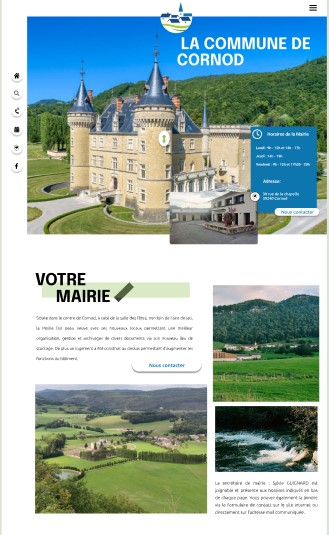
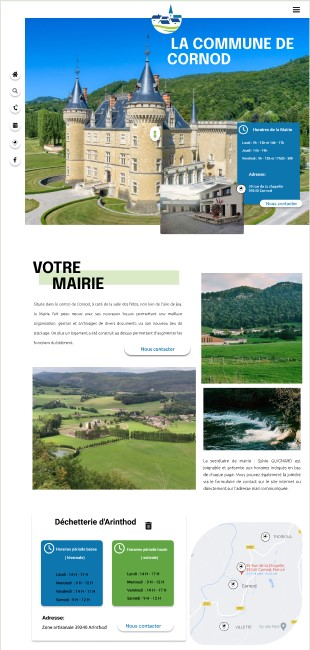
avancement partie portfolio

diff --git a/assets/css/style.css b/assets/css/style.css
@@ -33,7 +33,7 @@ header > .boxLogo{width: 100%;display: flex;justify-content: flex-start;align-it
 #boxScroll> div > a > .fa-chevron-down { color: #ffffff;font-size: 30px;}
 #boxScroll > div > a > i:hover {color: #6cc431; transform: rotate(180deg);}
 #boxScroll > div > a:hover {color: #6cc431; transform: rotate(180deg);}
-
+/***************************************************************************************************/
 /* partie boxLogo*/
 #logoLeaf{width: 100%;height: 10vh; display: flex;justify-content: space-between;align-items: center;}
 #logoLeaf>.logoChris {width:120px;height: 80px;margin-top: 30px;margin-left: 30px;}
@@ -41,6 +41,7 @@ header > .boxLogo{width: 100%;display: flex;justify-content: flex-start;align-it
 .fa-solid{font-size: 40px;}
 .fa-leaf{color: #6CC431;transform: rotate(45deg);margin-top : 20px ;}
 .fa-arrow-rotate-right{color: #ffff;}
+/*******************************************************************************************************/
 /* partie boxIdentité */
 #boxIdentite{width: 100%;display: flex;flex-direction: column;justify-content:center;;height: 75vh;}
 .hello{display: flex; margin-left: 15%;}
@@ -51,6 +52,7 @@ h1,.moi,.prenom{font-family: 'Rubik', sans-serif;font-size: 90px;font-weight: 40
 .boxReseau{width: 100%;min-height: 10vh; display: flex;align-items: center;justify-content: flex-end;}
 .reseau{margin-right: 30px;}
 .fa-brands{font-size: 30px;color: white;text-decoration: none; margin-left: 20px;}
+/***********************************************************************************************************/
 /********************section  A Propos ************************/
 #aPropos{width: 100%; min-height: 100vh; display: flex;}
 .boxPhoto{width: 30%;height: 100vh;display: flex;justify-content: center;align-items: center;flex-direction: row; background: #4A8442;}
@@ -74,6 +76,7 @@ h1,.moi,.prenom{font-family: 'Rubik', sans-serif;font-size: 90px;font-weight: 40
 .presentation > h3> span{color:#ffff;font-size: 50px;}
 .presentation > h3> span:hover{color: black;} 
 .presentation > h4{width:80%;font-family: 'Rubik', sans-serif;font-size: 80px;}
+/************************************************************************************************************************************************************************/
 /* partie résumer */
 .resumer{width:90%;height: 100vh;display: flex;justify-content: center; align-items: center;flex-direction: column; margin-left: 80px;}
 .resumer > p {width: 50%;display: flex;justify-content: center;align-items: center;font-family: "Numans";font-size: 16px;margin-left: 20px; margin-top:20px;}  
@@ -83,32 +86,38 @@ h1,.moi,.prenom{font-family: 'Rubik', sans-serif;font-size: 90px;font-weight: 40
 #roundContact > a{color: white; text-decoration: none;z-index: 2; margin-right: 4px;}
 #roundContact::after{content:"Contact";position: absolute;border-radius: 80px / 40px;width: 150px; height: 75px; background:#4A8442; z-index: 1; top: 10px; right: 20px; color: white;  text-decoration: none;}*/
 /**************** SECTION COMPETENCES DEV*********************/
-#competencesDev{ width: 100%; min-height: 100vh; display: flex; justify-content:center;align-items: center;flex-direction:row;}
-.division{width: 100%;height:10vh;display: flex;justify-content:center;align-items: center;}
-.division> h2{ font-family: 'NovaRound';font-size: 2.5rem;color: black;margin-left: 10px;margin-top: 20px;}
-.division>.fa-leaf{margin-top:40px;}
-/* partie langages de compétence developpement */
-.boxLangages{width: 100%;height:100vh;display: flex;justify-content: center; 
-    align-items: center;flex-direction: column;}
-.barLangages{ height:20px;background: #6CC431;border-radius: 30px;}
-#langagesDev{ width:85%;height:20px; background:#e2dfcd; border-radius:30px;display: flex;justify-content: flex-start;
-    align-items:center; color:black; margin:48px 0px 0px 60px} 
-#langagesDev>.fa-html5,.fa-css3-alt,.fa-js-square,.fa-php,.fa-laravel,.fa-bootstrap,.fa-wordpress-simple{color:#095933; margin-left: -38px;}
-.html{width: 85%;}.css{width: 75%;}.js{width:20%}.php{width: 2%;}.laravel{width: 0%;}.bootstrap{width: 60%;}.wordpress{width: 15%;}
 /* Partie Compétence */
-#competencesDev> .boxCompetencesDev{ width:100%;height: 100vh; justify-content: center; align-items: center;flex-direction: column-reverse; background:#AEE68A;margin: 0 50px;display: flex;justify-content: center;align-items: center;}
-#competencesDev> h2{font-family: "Rubik",sans-serif;font-weight: bold; font-size: 55px;color: black;writing-mode: vertical-rl;text-orientation: upright}
-#competencesDev> .boxCompetencesDev >h3{width:83%;font-family: "Numans"; font-size:3.5rem;margin-left: 30px; background: #AEE68A;color: white;}
+#competencesDev{ width: 100%; min-height: 100vh; display: flex; justify-content:center;align-items: center;flex-direction:column;}
+#competencesDev> .boxCompetencesDev{ width:60%;flex-direction: column-reverse; background:#AEE68A;margin: 0 50px;display: flex;justify-content: center;align-items: center;}
+/********************************************************************************************************************************************************/
+.division{width: 43%;display: flex;justify-content:space-around;align-items: center;flex-direction: column;}
+.develop{ font-family: 'NovaRound';font-size: 2.5rem;color: black;margin-left: 20px;margin-top: 20px;}
+.fa-leaf{margin-top:40px;}
+.comptet{width:100%; background: #AEE68A;font-family: "Rubik",sans-serif;font-weight: bold; font-size:5.5rem;color: black;margin-top: 30px;}
+.boxLeafDeve{flex-direction: row-reverse;display: flex;width: 100vw;height: 12vh;justify-content: flex-end;}
+/*****************************************************************************************************************************************************************************/
+/* partie langages de compétence developpement */
+#contenaireDev{width: 100%;height: 100vh; display: flex;justify-content: center; align-items: center;}
+.contenaireLang{width: 100%; height: 100vh; display: flex;flex-direction: column;justify-content: flex-start; align-items: center;}
+#langagesDev{ width:80%;height:20px; background:#e2dfcd; border-radius:30px;display: flex;justify-content: flex-start;align-items:center; color:black; margin:48px 0px 0px 60px}
+#langagesDev>.fa-html5,.fa-css3-alt,.fa-js-square,.fa-php,.fa-laravel,.fa-bootstrap,.fa-wordpress-simple{color:#095933; margin-left: -38px;} 
+.html{width: 85%;}.css{width: 75%;}.js{width:20%}.php{width: 2%;}.laravel{width: 0%;}.bootstrap{width: 60%;}.wordpress{width: 15%;}
+.boxLangages{width: 100%;height:100vh; display: flex;justify-content: flex-start;align-items: center;}
+.barLangages{ width: 100%;Height:20px;background: #6CC431;border-radius: 30px;display: flex;flex-direction: column;}
+.imgGreen{width: 100%;height: 100vh;display: flex; align-items: center;justify-content: center;background:yellow}
+
+/*****************************************************************************************************************************************************/
 /**************** SECTION COMPETENCES DESIGNE/DIGITAL/AUTRES*********************/
 #competencesDeg{ width: 100%; height: 100vh; display: flex; justify-content:center;align-items: center;flex-direction:row;}
 #competencesDeg> .boxCompetencesDeg{ width:80%; color:#6CC431;display: flex;justify-content: center;}
-.boxCompetencesDeg> h2{font-family: "Rubik",sans-serif;font-weight: bold; font-size: 55px; color: black; writing-mode: vertical-rl;text-orientation: upright}
 #competencesDeg> .boxCompetencesDeg >h3{width:70%;font-family: "Numans"; font-size:3.5rem;margin-left: 80px;}
+/******************************************************************************************************************************************************************/
 /* partie langages de compétence */
 #competencesDeg{ width: 100%; min-height: 100vh; display: flex; justify-content:center;align-items: center;flex-direction:row;}
 .type{width: 100%;height:10vh;display: flex;justify-content:flex-start;align-items: center;}
 .type> h2{ font-family: 'NovaRound';font-size: 1.8rem;color: black;margin-left: 47px;margin-top: 57px;}
 .type>.fa-leaf{margin-top:67px;font-size: 25px;}
+/******************************************************************************************************************************************************************/
 /* partie langages de compétence developpement */
 .boxDig{width: 100%;height:100vh;display: flex;justify-content: center; align-items: center;flex-direction: column; margin: 50px;}
 .barLangages{ height:20px;background: #6CC431;border-radius: 30px;}
@@ -120,47 +129,49 @@ h1,.moi,.prenom{font-family: 'Rubik', sans-serif;font-size: 90px;font-weight: 40
 .frameworks{} */
 #langagesDig>.fa-figma, .fa-mobile-button, .fa-sass, .fa-code, .fa-git-square, .fa-envira{color:#095933; margin-left: -38px;font-size: 1.6rem;}
 .figma{width: 70%;}.mobile{width: 80%;}.sass{width:20%}.integration{width: 90%;}.leaf{width: 85%;}.git{width:50%}
+/************************************************************************************************************************************************************************/
 /*********************************** SECTION PORTFORLIO ********************************/
-#portFolio{width: 100%;min-height: 100vh;display: flex;flex-direction: column;}
-#titleProjets{width: 100%;height: 25vh;display:flex;align-items: center;margin-bottom: 50px;}
+#portFolio{width: 100%;height: 89vh;display: flex;flex-direction: column;margin-top: 20px;}
+#titleProjets{width: 100%;height:100vh;display:flex;align-items: center;margin-bottom: 50px;background: white;}
 #titleProjets>h2{ color:black;font-size: 5rem;font-family: 'Rubik';font-weight: 500;margin-left:50px;}
-#titleProjets>.fa-leaf{
-    font-size: 50px;
-}
+#titleProjets>.fa-leaf{font-size: 50px;}
+/************************************************************************************************************************************************************************/
 /* premiere partie des projets  */
-#lesProjets1{width: 100%;height:75vh;display:flex;}
-figure{width: 100%;margin: 10px;}
+figure{width: 100%;display: flex;justify-content: center;align-items: center;flex-direction: column;}
+.titleDescrip{font-size: 2rem;font-family: 'NovaRound';display: flex;justify-content: center;align-items: center;}
+figcaption{width: 35vw;height: 15vh;display: flex;justify-content: center;align-items: center; flex-direction: column;margin-left: 50px;}
+figcaption>.description{font-family: 'NovaRound';font-size: 2rem;color: black;}
+button{width: 27vh;height: 7vh; background: white;border-radius: 50px;font-family: 'Numans';}
+.boutonProjets{font-size: 1rem;margin-top: 25px; border:2px solid #6cc431;text-decoration: none;display: inline-block;transition-duration: 0.4s;cursor: pointer;}
+.boutonProjets:hover{ color:white; background-color:#6cc431;}
+/************************************************************************************************************************************************************************/
+/* partie 1 projet */
+#listeProjets1{width: 100%;height:75vh;display:flex;}
 /* porjet creatives */
 figure>.creatives{width: 25vw; height: 75vh;flex-direction: column;}
-.creatives>img{width: 30vw;height: 40vh;margin-left: 30px;}
-.creatives>h4{width: 30vw;font-family: 'Rubik';font-size: 2rem;}
-figcaption{width: 30vw;height: 20vh;display: flex;justify-content: center;align-items: center; flex-direction: column;margin-left: 30px;}
-figcaption>.description{font-family: 'NovaRound';font-size: 2rem;color: black;}
-button{width: 27vh;height: 7vh; background: white;border-radius: 50px;font-family: 'Numans';}
-.boutonProjets{font-size: 1rem;margin-top: 25px; border:2px solid #6cc431;text-decoration: none;display: inline-block;transition-duration: 0.4s;cursor: pointer;}
-.boutonProjets:hover{ color:white; background-color:#6cc431;}
+.creatives>img{width: 35vw;height: 45vh;}
+/****************************************************************************************************************************************************************************/
 /* projet maquette*/
-figure>.maquette{width: 25vw; height: 75vh;flex-direction: column;}
-.maquette>h4{width: 30vw;font-family: 'Rubik';font-size: 2rem;}
-.boxImgMaq{display: flex;width: 28vw;height: 40vh;margin-left: 30px;justify-content: center;}
-figcaption{width: 30vw;height: 20vh;display: flex;justify-content: center;align-items: center; flex-direction: column;margin-left: 30px;}
-figcaption>.description{font-family: 'NovaRound';font-size: 2rem;color: black;}
-button{width: 27vh;height: 7vh; background: white;border-radius: 50px;font-family: 'Numans';}
-.boutonProjets{font-size: 1rem;margin-top: 25px; border:2px solid #6cc431;text-decoration: none;display: inline-block;transition-duration: 0.4s;cursor: pointer;}
-.boutonProjets:hover{ color:white; background-color:#6cc431;}
-/* projet capgemen */
-figure>.capgemen{width: 25vw; height: 75vh;flex-direction: column;background: yellow;}
-.capgemen>img{width: 30vw;height: 40vh;margin-left: 30px;}
-.capgemen>h4{width: 30vw;font-family: 'Rubik';font-size: 2rem;}
-figcaption{width: 30vw;height: 20vh;display: flex;justify-content: center;align-items: center; flex-direction: column;margin-left: 30px;}
-figcaption>.description{font-family: 'NovaRound';font-size: 2rem;color: black;}
-button{width: 27vh;height: 7vh; background: white;border-radius: 50px;font-family: 'Numans';}
-.boutonProjets{font-size: 1rem;margin-top: 25px; border:2px solid #6cc431;text-decoration: none;display: inline-block;transition-duration: 0.4s;cursor: pointer;}
-.boutonProjets:hover{ color:white; background-color:#6cc431;}
+figure>.maquette{width: 25vw; height: 75vh;flex-direction: column;} 
+.boxImgMaq{display: flex;width: 28vw;height: 45vh;margin-left: 30px;justify-content: center;}
+.imgMaq1,.imgMaq2{width:13vw;padding: 10px;height: 40vh;}
+/*****************************************************************************************************************************************************************************/
 /* 2eme partie des projets */
-
-
-
+#listeProjets2{width: 100%;height:100vh;display:flex;margin-top: 50px;}
+/* partie 2 projet */
+/************************************************************************************************************************************************************************/
+/* projet capgemen */
+figure>.capgemen{width: 25vw; height:100vh;flex-direction: column;} 
+.capgemen>img{width: 30vw;height: 40vh;margin-left: 30px;}
+/* projet Pop Code */
+figure>.popCode{width: 25vw; height:100vh;flex-direction: column;} 
+.popCode>img{width: 30vw;height: 40vh;margin-left: 30px;}
+/* partie 3 projet */
+/************************************************************************************************************************************************************************/
+/* projet portFolio */
+figure>.folio{width: 25vw; height:100vh;flex-direction: column;}
+.folio>img{width: 30vw;height: 40vh;margin-left: 30px;}
+/************************************************************************************************************************************************************************/
 
 
 /* Spin */

diff --git a/index.html b/index.html
@@ -106,53 +106,55 @@
     </div> -->
     </section>
     <section id="competencesDev">
-        <div class="boxLangages">
-            <div class="division">
-                <h2>Développement</h2>
+        <div class="division">
+            <h2 class="comptet">COMPETENCES</h2>
+            <div class="boxLeafDeve">
                 <i class="fa-solid fa-leaf"></i>
+                <h3 class="develop">Développement Web</h3>
             </div>
-            <div id="langagesDev">
-                <div class="barLangages html"></div> 
-                <i class="fa-brands fa-html5"></i>
-                <!-- <button onclick="move()">Click Me</button>  -->
-            </div>
-            <div id="langagesDev">
-                <div class="barLangages css"></div>
-                <i class="fa-brands fa-css3-alt"></i> 
-                <!-- <button onclick="move()">Click Me</button>  -->
+        </div>
+        <div class="boxLangages">
+            <!-- <img src="./assets/img/green-it2.jpg" alt=""> -->
 
+            <div id="contenaireDev">
+                <div class="contenaireLang">
+                    <div id="langagesDev">
+                        <div class="barLangages html"></div>
+                        <i class="fa-brands fa-html5"></i>
+                    </div>
+                    <div id="langagesDev">
+                        <div class="barLangages css"></div>
+                        <i class="fa-brands fa-css3-alt"></i> 
+                    </div>
+                    <div id="langagesDev">
+                        <div class="barLangages js"></div> 
+                        <i class="fa-brands fa-js-square"></i>
+                    </div>
+                    <div id="langagesDev">
+                        <div class="barLangages php"></div> 
+                        <i class="fa-brands fa-php"></i>
+                    </div>
+                    <div id="langagesDev">
+                        <div class="barLangages laravel"></div> 
+                        <i class="fa-brands fa-laravel"></i>
+                    </div>
+                    <div id="langagesDev">
+                        <div class="barLangages bootstrap"></div> 
+                        <i class="fa-brands fa-bootstrap"></i>
+                    </div>
+                    <div id="langagesDev">
+                        <div class="barLangages wordpress"></div> 
+                        <i class="fa-brands fa-wordpress-simple"></i>
+                    </div>
+                </div>
+                <div class="imgGreen">
+                    <img src="./assets/img/green-it.png" alt="">
+                </div>
             </div>
-            <div id="langagesDev">
-                <div class="barLangages js"></div> 
-                <i class="fa-brands fa-js-square"></i>
-            </div>
-            <div id="langagesDev">
-                <div class="barLangages php"></div> 
-                <i class="fa-brands fa-php"></i>
-            </div>
-            <div id="langagesDev">
-                <div class="barLangages laravel"></div> 
-                <i class="fa-brands fa-laravel"></i>
-            </div>
-            <div id="langagesDev">
-                <div class="barLangages bootstrap"></div> 
-                <i class="fa-brands fa-bootstrap"></i>
-            </div>
-            <div id="langagesDev">
-                <div class="barLangages wordpress"></div> 
-                <i class="fa-brands fa-wordpress-simple"></i>
-            </div>
-        </div>
-        <h2>COMPETENCES</h2>
-        <div class="boxCompetencesDev">
-            <h3>Développement web</h3>
-        </div>
-    </div>  
     </section>
     <section id="competencesDeg">
         <div class="boxCompetencesDeg">
             <h3>Eco-Responsable et Accessible pour Tous!</h3>
-            <h2>COMPETENCES</h2>
         </div>
         <div class="boxDig">
             <div class="type">
@@ -204,57 +206,47 @@
             <h2>PortFolio</h2>
             <i class="fa-solid fa-leaf"></i>
         </div>
-        <div id="lesProjets1">
+        <div id="listeProjets1">
             <figure class="projet creatives">  
-                <h4 class="titleDescrip">Créatives</h4> 
-                <!-- <i class="fa-solid fa-leaf"></i> -->
+                <h3 class="titleDescrip">Créatives</h3> 
                 <img src="./assets/img/creatives.jpg" alt="image de la première page du projet créatives">
                 <figcaption>
-                    <h3 class="description">Intégration sans Bootstrap</h3>
                     <button type="button" class="boutonProjets">En savoir plus</button>
                 </figcaption>
             </figure>
             <figure class="projet maquette">  
-                <h4 class="titleDescrip">Commune de Cornod</h4> 
-                <!-- <i class="fa-solid fa-leaf"></i> -->
+                <h3 class="titleDescrip">Commune de Cornod</h3> 
                 <div class="boxImgMaq">
                     <img class='imgMaq1'src="./assets/img/maquette.jpg" alt="image de la maquette">
                     <img class='imgMaq2'src="./assets/img/maquette1.jpg" alt="image de la maquette">
                 </div>
                 <figcaption>
-                    <h3 class="description">Réalisation d'une maquette</h3>
-                    <button type="button" class="boutonProjets">En savoir plus</button>
-                </figcaption>
-            </figure>
-            <figure class="projet capgemen">  
-                <h4 class="titleDescrip">Capgemen</h4> 
-                <!-- <i class="fa-solid fa-leaf"></i> -->
-                <img src="./assets/img/capgemen.jpg" alt="image de la première page du projet créatives">
-                <figcaption>
-                    <h3 class="description">Intégration avec Bootstrap</h3>
                     <button type="button" class="boutonProjets">En savoir plus</button>
                 </figcaption>
             </figure>
         </div>
-
-        <div id="lesProjets2">
-
-            <figure class="projet popCode">  
-                <h4 class="titleDescrip">Pop Code</h4> 
-                <!-- <i class="fa-solid fa-leaf"></i> -->
-                <img src="" alt="image de la première page du projet créatives">
+        <div id="listeProjets2">
+            <figure class="projet capgemen">  
+                <h3 class="titleDescrip">Capgemen</h3> 
+                <img src="./assets/img/capgemen.jpg" alt="image de la première page du projet Capgemen">
                 <figcaption>
-                    <h3 class="description">Intégration aux choix</h3>
                     <button type="button" class="boutonProjets">En savoir plus</button>
                 </figcaption>
             </figure>
-            <figure class="projet folio">  
-                <h4 class="titleDescrip">PortFolio</h4> 
-                <!-- <i class="fa-solid fa-leaf"></i> -->
-                <img src="" alt="image de la première page du projet créatives">
+            <figure class="projet popCode">  
+                <h3 class="titleDescrip">Pop Code</h3> 
+                <img src="./assets/img/Chargement.jpg" alt="images du Jeu Pop code">
                 <figcaption>
-                    <h3 class="description">Intégration aux choix</h3>
                     <button type="button" class="boutonProjets">En savoir plus</button>
+                </figcaption>
+            </figure>
+        </div>
+        <div id="listeProjets3">
+            <figure class="projet folio">  
+                <h3 class="titleDescrip">PortFolio</h3> 
+                <img src="./assets/img/portFolioChris.jpg" alt="image de la première page de mon portFolio">
+                <figcaption>
+                   <button type="button" class="boutonProjets">En savoir plus</button>
                 </figcaption>
             </figure>
         </div> 
@@ -268,8 +260,8 @@
     <!-- Icone Iconify
     <script src="https://code.iconify.design/2/2.2.1/iconify.min.js"></script> -->
     <!-- Bootstrap JS bundle-->
-    <script src="https://cdn.jsdelivr.net/npm/bootstrap@5.0.2/dist/js/bootstrap.bundle.min.js"
-    integrity="sha384-MrcW6ZMFYlzcLA8Nl+NtUVF0sA7MsXsP1UyJoMp4YLEuNSfAP+JcXn/tWtIaxVXM" crossorigin="anonymous"></script>
+    <!-- <script src="https://cdn.jsdelivr.net/npm/bootstrap@5.0.2/dist/js/bootstrap.bundle.min.js"
+    integrity="sha384-MrcW6ZMFYlzcLA8Nl+NtUVF0sA7MsXsP1UyJoMp4YLEuNSfAP+JcXn/tWtIaxVXM" crossorigin="anonymous"></script> -->
     <!-- fontawesome JS -->
     <script src="https://kit.fontawesome.com/14273d579a.js" crossorigin="anonymous"></script>
     <script src="./assets/js/app.js"></script>
